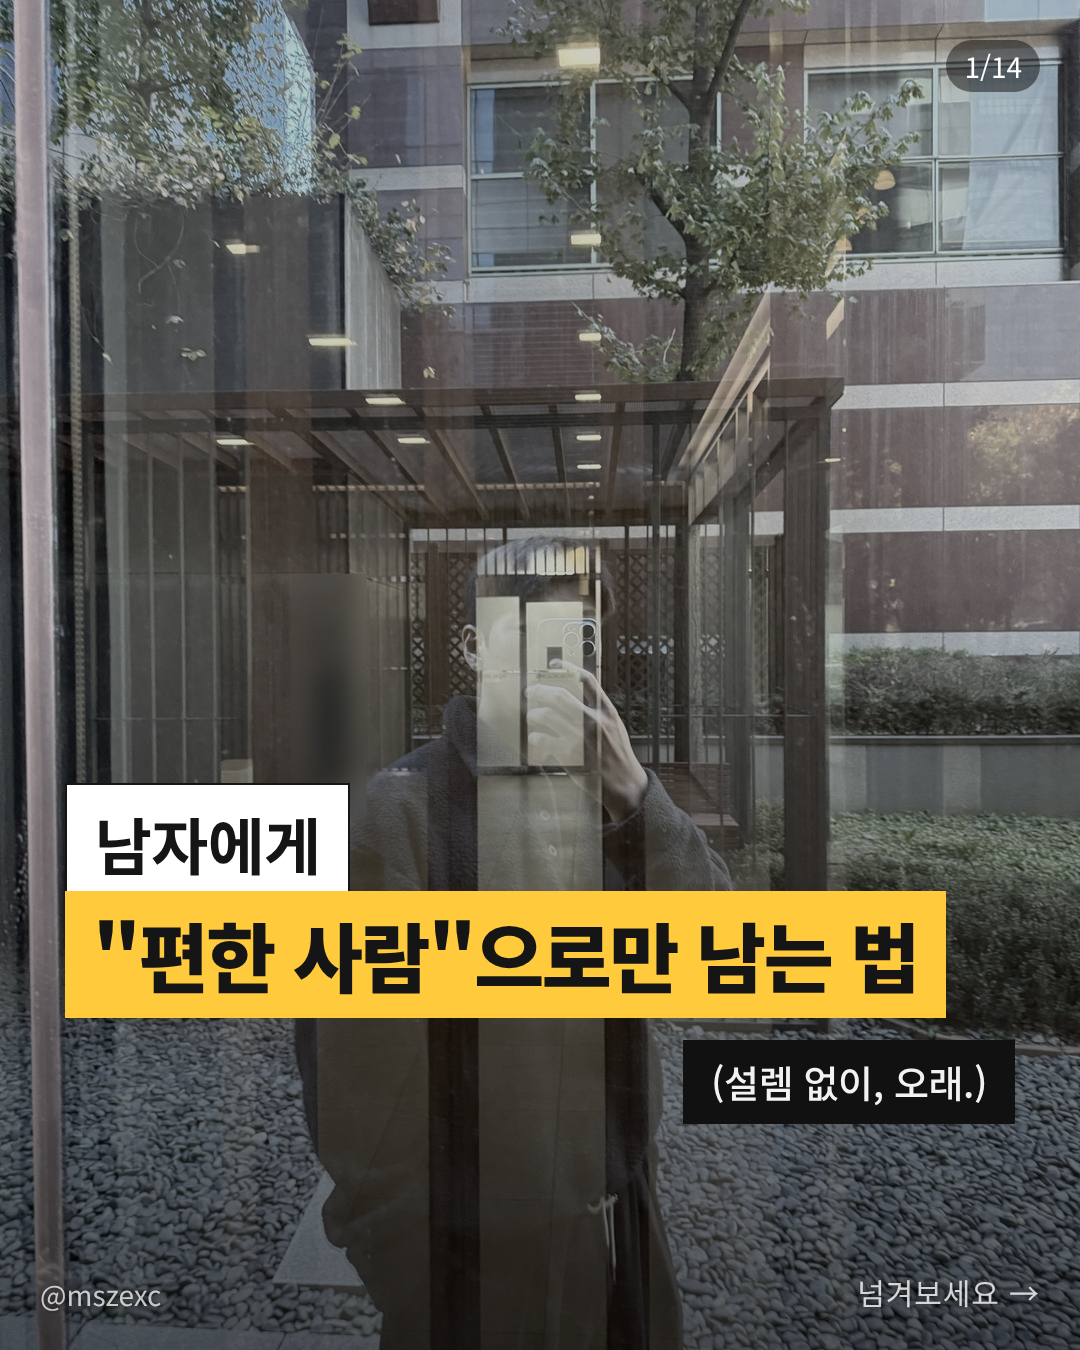
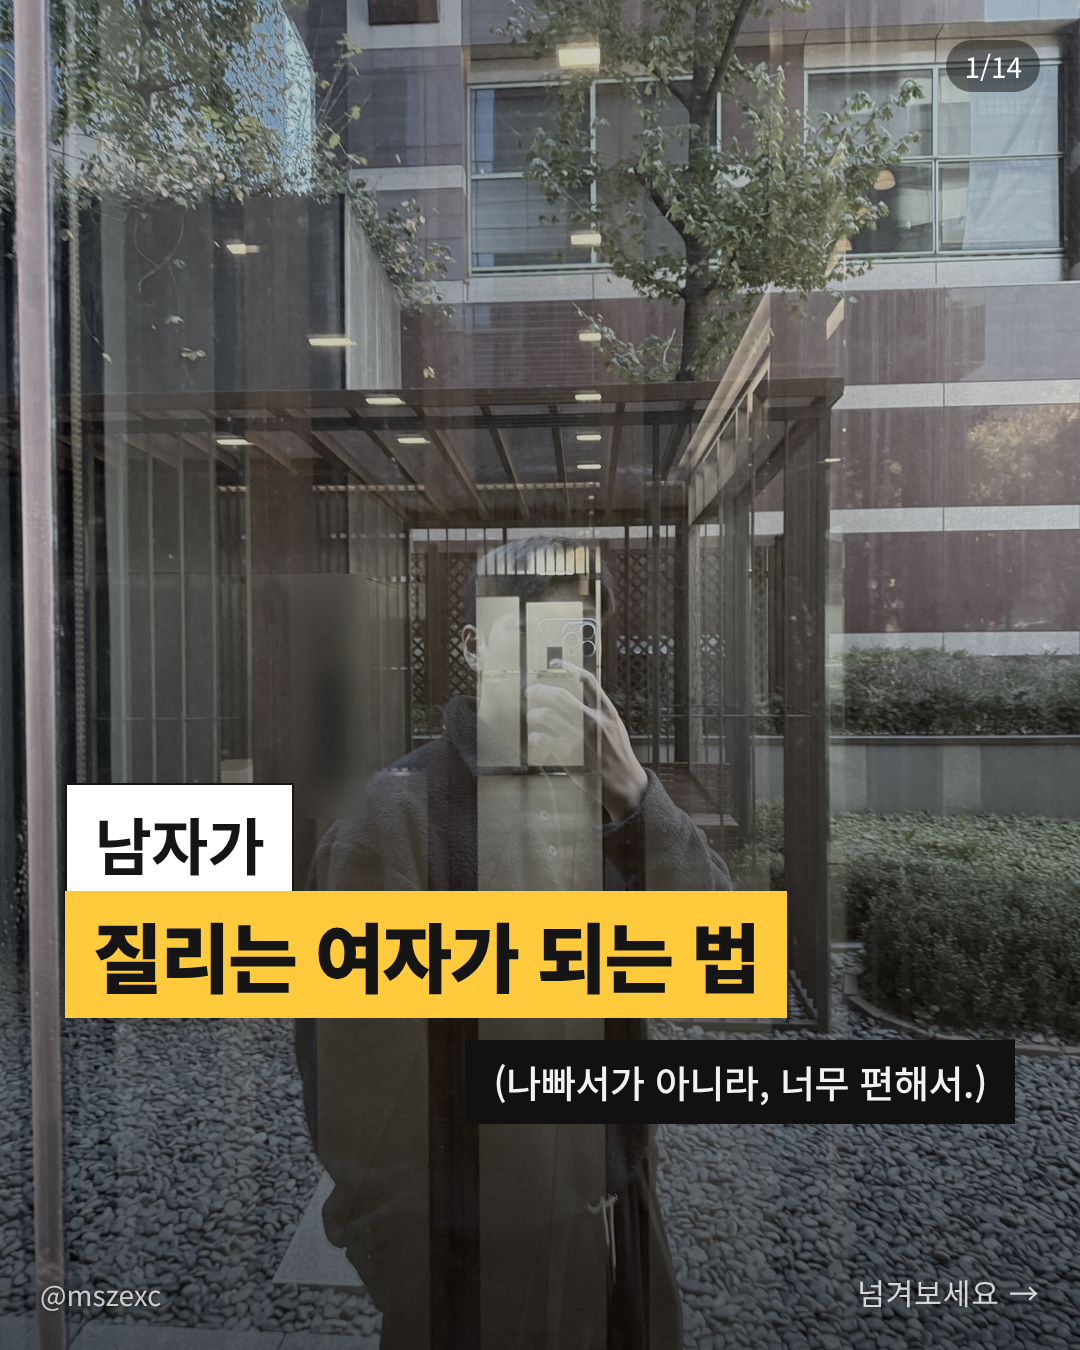
Carousel #49: retitle to 남자가 질리는 여자가 되는 법
Claude-Session: https://claude.ai/code/session_01J9i5yL8MFhQ5W67Sx3nDW6

Changed region(s): [[0.0917, 0.56, 0.8861, 0.84]]

diff --git a/carousel/photo_story/c49.html b/carousel/photo_story/c49.html
@@ -23,7 +23,7 @@
   .phd b { display:block; font-size:30px; color:#6d675e; letter-spacing:.1em; margin-bottom:8px; }
   .shade { position:absolute; left:0; right:0; bottom:0; height:60%; background:linear-gradient(transparent, rgba(0,0,0,.55)); }
 </style></head><body>
-<section class="slide" id="s1"><img class="bg" src="p49/01.jpg" style="inset:0;width:100%;height:100%;object-fit:cover"><div class="shade"></div><div class="bx W" style="top:58%;left:6%;">남자에게</div><div class="bx G" style="top:66%;left:6%;">&quot;편한 사람&quot;으로만 남는 법</div><div class="bx k" style="top:77%;right:6%;">(설렘 없이, 오래.)</div><div class="num">1/14</div><div class="hd">@mszexc</div><div class="ser">넘겨보세요 →</div></section>
+<section class="slide" id="s1"><img class="bg" src="p49/01.jpg" style="inset:0;width:100%;height:100%;object-fit:cover"><div class="shade"></div><div class="bx W" style="top:58%;left:6%;">남자가</div><div class="bx G" style="top:66%;left:6%;">질리는 여자가 되는 법</div><div class="bx k" style="top:77%;right:6%;">(나빠서가 아니라, 너무 편해서.)</div><div class="num">1/14</div><div class="hd">@mszexc</div><div class="ser">넘겨보세요 →</div></section>
 <section class="slide" id="s2"><img class="bg" src="p49g/02.png" style="inset:0;width:100%;height:100%;object-fit:cover;filter:none"><div class="bx w" style="top:36%;left:6%;">연애는 하는데 설레지 않는 사이.</div><div class="bx g" style="top:46%;right:6%;">만드는 법은 생각보다 쉬워요.</div><div class="num">2/14</div><div class="hd">@mszexc</div><div class="ser">남자들끼리 하는 말 #49</div></section>
 <section class="slide" id="s3"><img class="bg" src="p49g/03.png" style="inset:0;width:100%;height:100%;object-fit:cover;filter:none"><div class="bx w" style="top:34%;left:8%;">첫 번째.</div><div class="bx g" style="top:42%;right:6%;">모든 일정을 그에게 맞추세요.</div><div class="bx k" style="top:52%;left:6%;">(내 약속은 언제든 취소할 수 있게.)</div><div class="num">3/14</div><div class="hd">@mszexc</div><div class="ser">남자들끼리 하는 말 #49</div></section>
 <section class="slide" id="s4"><img class="bg" src="p49g/04.png" style="inset:0;width:100%;height:100%;object-fit:cover;filter:none"><div class="bx w" style="top:34%;left:8%;">두 번째.</div><div class="bx g" style="top:42%;left:4%;">연락은 늘 먼저, 답장은 1분 안에.</div><div class="bx k" style="top:52%;right:6%;">(그가 기다릴 일은 만들지 마세요.)</div><div class="num">4/14</div><div class="hd">@mszexc</div><div class="ser">남자들끼리 하는 말 #49</div></section>

diff --git a/carousel/photo_story/stories_49_51.py b/carousel/photo_story/stories_49_51.py
@@ -6,9 +6,9 @@ from hashtags import tags
 END = '📕 남자가 하는 말의 뜻은 「남자들끼리 하는 말」 1·2권에 적었습니다.\n프로필 링크에서 무료로 받아보세요.\n\n'
 
 # ── #48 · 반어 · 11/6 낮
-T48 = '남자에게 "편한 사람"으로만 남는 법'
+T48 = '남자가 질리는 여자가 되는 법'
 C48 = [
- [('W', '남자에게', 52, 6), ('G', '"편한 사람"으로만 남는 법', 60, 6), ('k', '(설렘 없이, 오래.)', 71, 'r')],
+ [('W', '남자가', 52, 6), ('G', '질리는 여자가 되는 법', 60, 6), ('k', '(나빠서가 아니라, 너무 편해서.)', 71, 'r')],
  [('w', '연애는 하는데 설레지 않는 사이.', 36, 6), ('g', '만드는 법은 생각보다 쉬워요.', 46, 'r')],
  [('w', '첫 번째.', 34, 8), ('g', '모든 일정을 그에게 맞추세요.', 42, 'r'), ('k', '(내 약속은 언제든 취소할 수 있게.)', 52, 6)],
  [('w', '두 번째.', 34, 8), ('g', '연락은 늘 먼저, 답장은 1분 안에.', 42, 4), ('k', '(그가 기다릴 일은 만들지 마세요.)', 52, 'r')],
@@ -23,7 +23,8 @@ C48 = [
  [('w', '편한 사람과 놓치기 싫은 사람의 차이는,', 36, 4), ('g', '그 여자에게 \'자기 삶\'이 있느냐예요.', 46, 'r')],
  [('w', '이것만 기억하세요.', 30, 8), ('g', '편한 사람은 고맙고, 궁금한 사람은 놓치기 싫어요.', 39, 4), EBOOK],
 ]
-CAP48 = f'''남자에게 "편한 사람"으로만 남는 법, 생각보다 쉬워요.
+CAP48 = f'''남자가 질리는 여자가 되는 법, 생각보다 쉬워요.
+나빠서가 아니라, 너무 편해서 질려요.
 
 ① 모든 일정을 그에게 맞추기
 ② 연락은 늘 먼저, 답장은 1분 안에

diff --git a/carousel/plan90/topics.py b/carousel/plan90/topics.py
@@ -64,7 +64,7 @@ SEC = [
   ('C3', '남자가 먼저 연락하지 않게 만드는 법', '#21 · 4.6만', 'done'),
   ('C3b', '남자가 말을 줄이게 만드는 법', '#29 · 4.4천 · 아픈 주제 없음', 'bad'),
   ('C4', '헤어진 남자가 절대 돌아오지 않게 만드는 법', '목차 11/3', 'plan'),
-  ('C5', "남자에게 '편한 사람'으로만 남는 법", '목차 11/6', 'plan'),
+  ('C5', "남자가 질리는 여자가 되는 법", '#49 · 11/10 제목 바꿈', 'done'),
   ('C6', '남자가 미래를 그리지 않게 만드는 법', '목차 11/10', 'plan'),
   ('C7', '남자가 조용히 이별을 준비하게 만드는 법', '목차 11/13 · 「진심을 숨기게」에서 교체', 'plan'),
   ('C8', '나쁜 남자만 계속 만나는 법', '목차 11/17', 'plan'),

diff --git a/carousel/plan90/plan90.md b/carousel/plan90/plan90.md
@@ -58,7 +58,7 @@
 - 11/5(목) 11~12시 [이별] #47 남자가 헤어지고 바로 괜찮아 보이는 이유 — #46 완성 · 🎨 그래픽 배경 14장
 - 11/5(목) 21시 [릴스] R5 남자가 식을 때, 칭찬보다 먼저 줄어드는 것 · 캐러셀 #43(11/3)과 같은 소재라 뺌 · 「식을 때」는 R26(11/26)으로
 - 11/5(목) 18~19시 [머릿속] #48 남자의 말이 줄어들 때, 머릿속에서 일어나는 일 — #47 완성 · 📸 사진 7장 + 🎨 그래픽 7장
-- 11/6(금) 11~12시 [반어] #49 남자에게 "편한 사람"으로만 남는 법 — #49 완성 · 📸 사진 7장 + 🎨 그래픽 7장
+- 11/6(금) 11~12시 [반어] #49 남자가 질리는 여자가 되는 법 — #49 완성 · 📸 사진 7장 + 🎨 그래픽 7장
 - 11/6(금) 18~19시 [다른 여자] #50 남자친구가 다른 여자 게시물에 좋아요 누를 때, 진짜 뜻 — #50 완성 · 🎨 그래픽
 - 11/7(토) 11~12시 [진심] #51 남자가 진짜 미안할 때만 하는 말 — #51 완성 · 🎨 그래픽
 - 11/7(토) 18~19시 [번역] #52 남자가 당신한테만 "피곤하다"고 할 때 — #48 완성 · 📸 사진 7장 + 🎨 그래픽 7장 · #49~#51보다 먼저 올림
